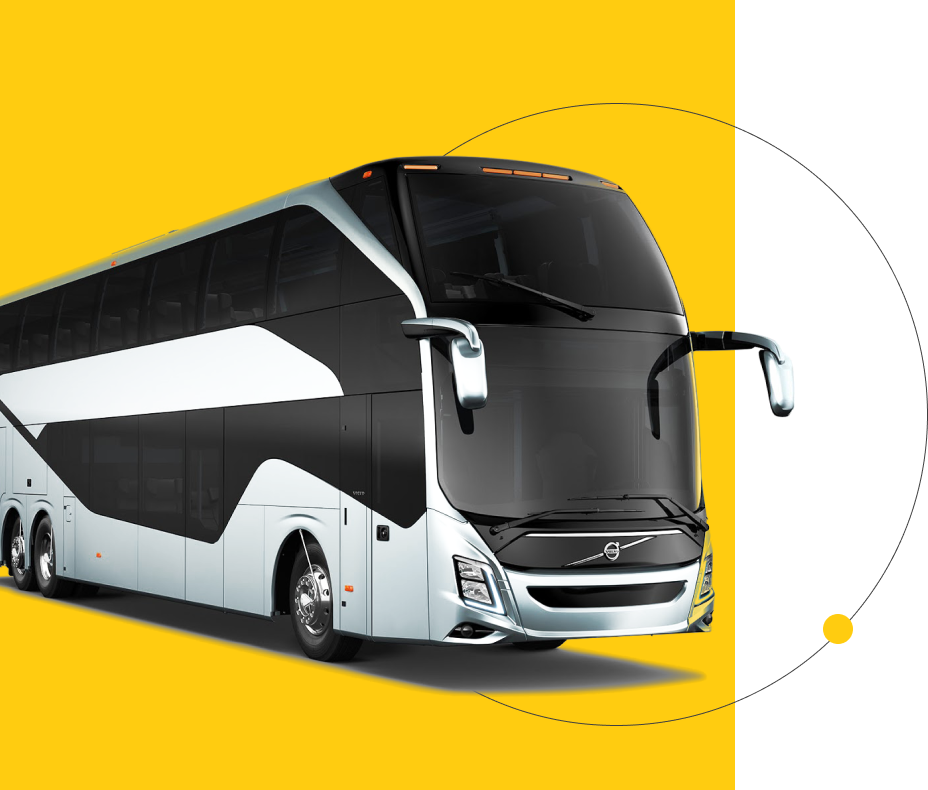
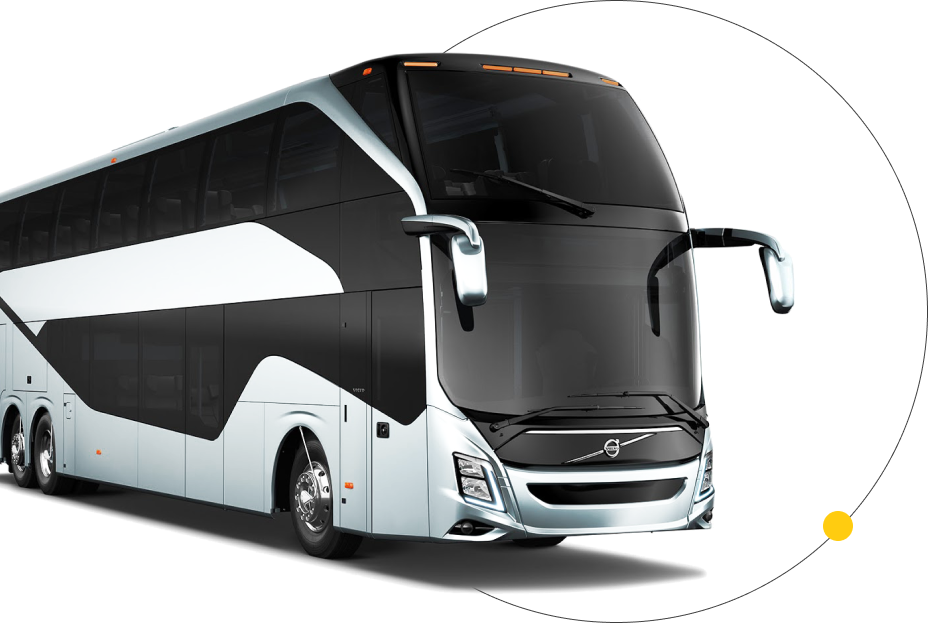
patch

diff --git a/script/main.js b/script/main.js
@@ -1,3 +1,4 @@
+//open modal function
 document.querySelector('.getSolution').onclick = function (){
     document.querySelector('.mask').style.display = "flex";
 }
@@ -5,7 +6,9 @@ document.querySelector('.getSolution').onclick = function (){
 document.querySelector('.xclose').onclick = function (){
     document.querySelector('.mask').style.display = "none";
 }
+
 $( document ).ready(function() {
+    //desktop tabs change function
     $(".cargo").click(function (){
         $(".switch").removeClass('active');
         $(this).addClass('active');
@@ -41,4 +44,31 @@ $( document ).ready(function() {
         $(".equipmentSubtitle").html("<div>Абонентский терминал ГЛОНАСС/GPS</div>");
         $(".controlSubtitle").html("<div>работы и простоя ТС, маршрутов, пробега, стиля вождения, скоростного режима, нахождения в пределах заданной геозоны, сроков ТО</div>");
     });
+//mobTabs change function
+    $(".selectCar").change(function (){
+        switch ($(this).val()){
+            case 'truck':
+                $(".equipmentSubtitle").html("<div>Абонентский терминал ГЛОНАСС/GPS;<br/>Датчики топлива.</div>");
+                $(".controlSubtitle").html("<div>Местоположения, скорости, моточасов, посещения контрольных точек, соблюдения маршрута и расхода топлива в режиме реального времени.</div>");
+            break;
+            case 'taxi':
+                $(".equipmentSubtitle").html("<div>Абонентский терминал ГЛОНАСС/GPS</div>");
+                $(".controlSubtitle").html("<div>работы и простоя ТС, маршрутов, пробега, стиля вождения, скоростного режима, нахождения в пределах заданной геозоны, сроков ТО</div>");
+            break;
+            case 'corp':
+                $(".equipmentSubtitle").html("<div>Абонентский терминал ГЛОНАСС/GPS</div>");
+        $(".controlSubtitle").html("<div>работы и простоя ТС, маршрутов, пробега, стиля вождения, скоростного режима, нахождения в пределах заданной геозоны, сроков ТО</div>");
+            break;
+            case 'spec':
+                $(".equipmentSubtitle").html("<div>Абонентский терминал ГЛОНАСС/GPS</div>");
+        $(".controlSubtitle").html("<div>работы и простоя ТС, маршрутов, пробега, стиля вождения, скоростного режима, нахождения в пределах заданной геозоны, сроков ТО</div>");
+            break;
+            case 'passenger':
+                $(".equipmentSubtitle").html("<div>Абонентский терминал ГЛОНАСС/GPS</div>");
+        $(".controlSubtitle").html("<div>работы и простоя ТС, маршрутов, пробега, стиля вождения, скоростного режима, нахождения в пределах заданной геозоны, сроков ТО</div>");
+            break;
+            default:
+                console.log('Oops');
+        }
+    })
 });

diff --git a/style/style.css b/style/style.css
@@ -756,9 +756,28 @@ body main .solutions .miniTruck {
 body main .solutions .truck {
   position: relative;
   display: flex;
-}
-body main .solutions .truck .truckPic {
+  width: 100%;
   max-width: 928px;
+  height: 628px;
+}
+body main .solutions .truck .truckBlock {
+  position: relative;
+  width: 100%;
+}
+body main .solutions .truck .truckBlock .truckPic {
+  position: absolute;
+  right: 29px;
+  top: 100px;
+  z-index: 1;
+}
+body main .solutions .truck .truckBlock .yellowSquare {
+  position: absolute;
+  top: 50px;
+  left: 0;
+  z-index: 0;
+  height: 729px;
+  width: 600px;
+  background: #FFCC10;
 }
 body main .solutions .truck .switch {
   position: absolute;
@@ -878,7 +897,9 @@ body main .solutions .choose .getSolution {
 body main .benefits {
   display: flex;
   max-width: 1285px;
-  margin: 83px auto 74px;
+  margin: 162px auto 74px;
+  position: relative;
+  z-index: 2;
 }
 body main .benefits .block {
   display: flex;
@@ -1029,6 +1050,8 @@ body main .examples .items .item:nth-child(7n+7) {
 }
 body main .feedback {
   display: flex;
+  position: relative;
+  margin-top: 150px;
 }
 body main .feedback .questions {
   max-width: 734px;
@@ -1406,6 +1429,9 @@ body .mask .popup .content .accept {
   body main .priceBlock .prices .column .item {
     max-width: 200px;
   }
+  body main .benefits {
+    margin-top: 40px;
+  }
   body main .benefits .block .perks .items .item {
     margin-right: 42px;
   }
@@ -1420,13 +1446,21 @@ body .mask .popup .content .accept {
   }
   body main .solutions {
     margin-bottom: 30px;
+    height: 502px;
   }
   body main .solutions .truck {
     width: 732px;
     height: fit-content;
   }
-  body main .solutions .truck .truckPic {
+  body main .solutions .truck .truckBlock .yellowSquare {
+    top: 25px;
+    height: 479px;
+    width: 446px;
+  }
+  body main .solutions .truck .truckBlock .truckPic {
     width: 532px;
+    left: 0;
+    top: 57px;
   }
   body main .solutions .truck .cargo {
     top: 101px;
@@ -1459,6 +1493,9 @@ body .mask .popup .content .accept {
   }
   body main .solutions .choose .equipment {
     margin-bottom: 32px;
+  }
+  body main .feedback {
+    margin-top: unset;
   }
   body footer .wrapper {
     max-width: 1150px;
@@ -1750,7 +1787,7 @@ body .mask .popup .content .accept {
     margin: 0;
   }
   body main .solutions {
-    margin: 0 auto;
+    margin: 0 auto 191px;
   }
   body main .solutions .truck {
     display: none;
@@ -1860,6 +1897,7 @@ body .mask .popup .content .accept {
   body main .feedback {
     flex-direction: column;
     margin-bottom: 35px;
+    margin-top: unset;
   }
   body main .feedback .questions {
     justify-content: center;
@@ -2148,6 +2186,9 @@ body .mask .popup .content .accept {
   body main .catalog .items .item .itemContent .description {
     font-size: 10px;
     line-height: 10px;
+  }
+  body main .solutions {
+    margin-bottom: 0;
   }
   body main .solutions .choose {
     max-width: 320px;

diff --git a/style/style.scss b/style/style.scss
@@ -826,8 +826,27 @@ body {
       .truck {
         position: relative;
         display: flex;
-        .truckPic{
-          max-width: 928px;
+        width: 100%;
+        max-width: 928px;
+        height: 628px;
+        .truckBlock{
+          position: relative;
+          width: 100%;
+          .truckPic{
+            position: absolute;
+            right: 29px;
+            top: 100px;
+            z-index: 1;
+          }
+          .yellowSquare{
+            position: absolute;
+            top: 50px;
+            left: 0;
+            z-index: 0;
+            height: 729px;
+            width: 600px;
+            background: #FFCC10;
+          }
         }
         .switch {
           position: absolute;
@@ -968,7 +987,9 @@ body {
     .benefits{
       display: flex;
       max-width: 1285px;
-      margin: 83px auto 74px;
+      margin: 162px auto 74px;
+      position: relative;
+      z-index: 2;
       .block{
         display: flex;
         flex-direction: column;
@@ -1123,7 +1144,8 @@ body {
 
     .feedback {
       display: flex;
-
+      position: relative;
+      margin-top: 150px;
       .questions {
         max-width: 734px;
         width: 100%;
@@ -1562,6 +1584,7 @@ body {
       }
 
       .benefits{
+        margin-top: 40px;
         .block{
           .perks{
             .items{
@@ -1589,12 +1612,22 @@ body {
 
       .solutions {
         margin-bottom: 30px;
+        height: 502px;
         .truck {
           width: 732px;
           height: fit-content;
 
-          .truckPic {
-            width: 532px;
+          .truckBlock{
+            .yellowSquare{
+              top: 25px;
+              height: 479px;
+              width: 446px;
+            }
+            .truckPic {
+              width: 532px;
+              left: 0;
+              top: 57px;
+            }
           }
 
           .cargo {
@@ -1638,6 +1671,9 @@ body {
             margin-bottom: 32px;
           }
         }
+      }
+      .feedback{
+        margin-top: unset;
       }
     }
 
@@ -1983,7 +2019,7 @@ body {
         }
       }
       .solutions {
-        margin: 0 auto;
+        margin: 0 auto 191px;
 
         .truck {
           display: none;
@@ -2110,6 +2146,7 @@ body {
       .feedback {
         flex-direction: column;
         margin-bottom: 35px;
+        margin-top: unset;
 
         .questions {
           justify-content: center;
@@ -2467,6 +2504,7 @@ body {
         }
       }
       .solutions {
+        margin-bottom: 0;
         .choose {
           max-width: 320px;
           .title{

diff --git a/index.html b/index.html
@@ -379,7 +379,10 @@
         </div>
         <div class="solutions">
             <div class="truck">
-                <img class="truckPic" src="images/truck.png" alt="truck">
+                <div class="truckBlock">
+                    <div class="yellowSquare"></div>
+                    <img class="truckPic" src="images/truck.png" alt="truck">
+                </div>
                 <div class="switch cargo active">Грузоперевозки</div>
                 <div class="switch taxi">Такси и автопрокат</div>
                 <div class="switch corp">Корпоративные <br> автопарки</div>
@@ -393,20 +396,20 @@
                 </div>
                 <hr>
                 <div class="mobTabs">
-                    <select name="" id="">
-                        <option value="">
+                    <select name="" id="" class="selectCar">
+                        <option class="option" value="truck">
                             Грузоперевозки
                         </option>
-                        <option value="">
+                        <option value="taxi">
                             Такси и автопрокат
                         </option>
-                        <option value="">
+                        <option value="corp">
                             Корпоративные автопарки
                         </option>
-                        <option value="">
+                        <option value="spec">
                             Спецтехника
                         </option>
-                        <option value="">
+                        <option value="passenger">
                             Пассажироперевозки
                         </option>
                     </select>

diff --git a/setting.html b/setting.html
@@ -492,7 +492,10 @@
         </div>
         <div class="solutions">
             <div class="truck">
-                <img class="truckPic" src="images/truck.png" alt="truck">
+                <div class="truckBlock">
+                    <div class="yellowSquare"></div>
+                    <img class="truckPic" src="images/truck.png" alt="truck">
+                </div>
                 <div class="switch cargo active">Грузоперевозки</div>
                 <div class="switch taxi">Такси и автопрокат</div>
                 <div class="switch corp">Корпоративные <br> автопарки</div>
@@ -506,20 +509,20 @@
                 </div>
                 <hr>
                 <div class="mobTabs">
-                    <select name="" id="">
-                        <option value="">
+                    <select name="" id="" class="selectCar">
+                        <option class="option" value="truck">
                             Грузоперевозки
                         </option>
-                        <option value="">
+                        <option value="taxi">
                             Такси и автопрокат
                         </option>
-                        <option value="">
+                        <option value="corp">
                             Корпоративные автопарки
                         </option>
-                        <option value="">
+                        <option value="spec">
                             Спецтехника
                         </option>
-                        <option value="">
+                        <option value="passenger">
                             Пассажироперевозки
                         </option>
                     </select>
